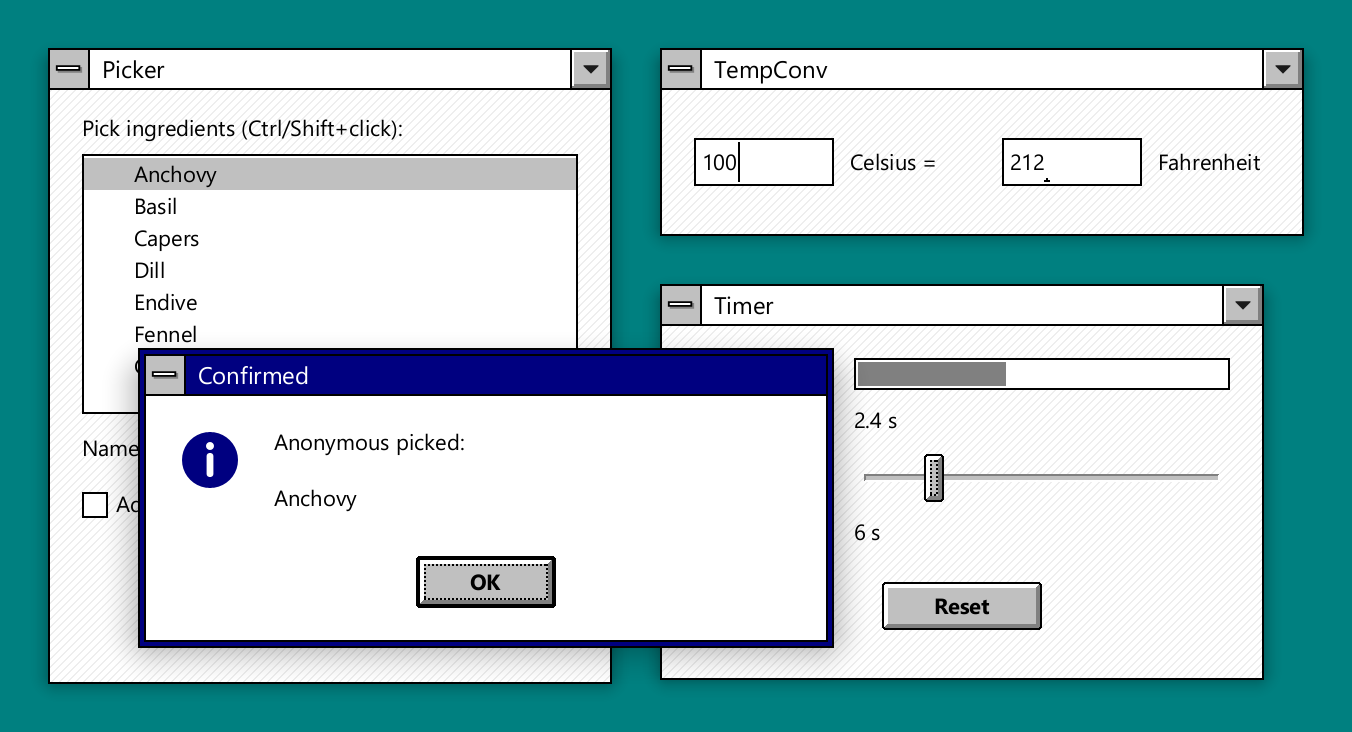
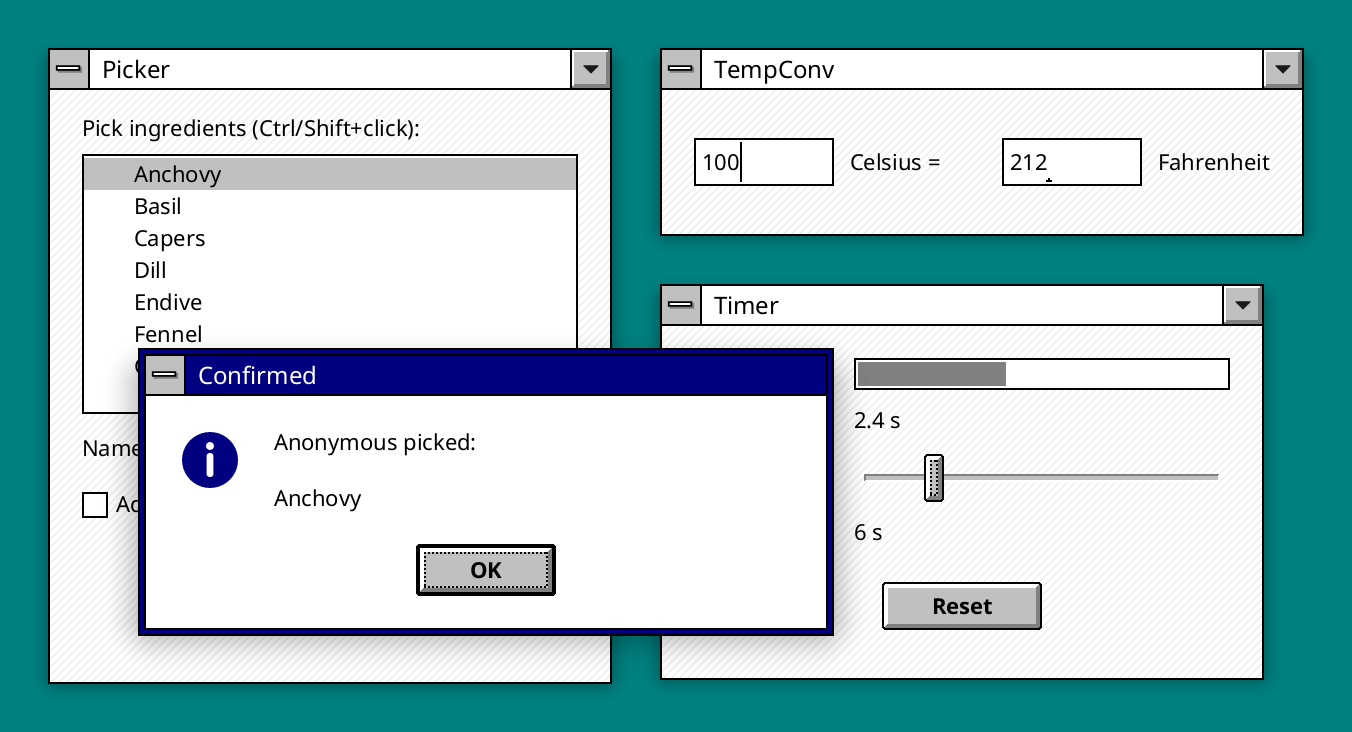
Update docs

diff --git a/CHANGELOG.md b/CHANGELOG.md
@@ -17,51 +17,53 @@ While pre-1.0, the minor version is bumped for breaking changes.
   flips it. The dark one is the new `Theme::windows_31_dark()`: the same
   chrome — black outlines, bevels lit from the top left — on a charcoal
   workspace, with dark-gray faces and light text. `App::with_dark_theme`
-  brings an app's own. The
-  appearance comes from winit on macOS and Windows, and from the freedesktop
-  settings portal's `color-scheme` on X11 and Wayland, read by a minimal D-Bus
-  client of saudade's own rather than a new dependency; without a portal, an
-  app stays light. `SAUDADE_THEME=dark` or `light` overrides the system,
-  title bars included where the platform draws them; `auto` follows it.
+  brings an app's own. The appearance comes from winit on macOS and Windows,
+  and from the freedesktop settings portal's `color-scheme` on X11 and
+  Wayland, read by a minimal D-Bus client of saudade's own rather than a new
+  dependency; without a portal, an app stays light. `SAUDADE_THEME=dark` or
+  `light` overrides the system, title bars included where the platform draws
+  them; `auto` follows it. (#70)
 - `Color::mix` blends two colors, for shades that should follow the theme
-  rather than be pinned.
+  rather than be pinned. (#70)
 - `ListItem::with_svg_glyph` shows a one-color mark in the row's text color.
   The `..` row of `FileDialog` and the `filer` example uses it, so its arrow
-  turns white on the selection band and stays visible on the dark theme.
+  turns white on the selection band and stays visible on the dark theme. (#70)
 - `SpinButton`: a pair of arrow buttons, vertical (up / down) or horizontal
   (left / right), that report steps for their owner to apply — a click is one,
   holding an arrow repeats it at the scrollbar arrows' pace, and the wheel
-  steps once per notch.
+  steps once per notch. (#90)
 - `NumberInput`: a text field for a number, with spin buttons along its right
   edge. It takes nothing but a number in its range, with no more decimals than
   its precision. The arrows, Up / Down, Page Up / Page Down and the wheel move
   it from one multiple of its step to the next. Taking the focus selects the
   number, so typing replaces it, and an optional unit (`"mm"`, `"%"`) shows in
-  grey inside the field.
+  grey inside the field. (#90)
 - `ButtonGroup`: a row or column of joined buttons, one of them selected at a
   time — a radio choice. Each button (a `GroupButton`) shows a label, an icon,
   or both; the selected one stays pushed in with a stippled face. The
   `page_layout` example picks its orientation with one, next to `NumberInput`s
-  for its margins, scale and copies.
+  for its margins, scale and copies. (#90)
 - `Painter::wrap_text` and `wrap_text_styled` break text into the lines it
   takes to fit a width, the way a `Label` wraps. (#89)
 - Drops of links and of images out of a web browser, on Windows, Wayland and
-  X11: `DragData` gains `urls` and `files` next to `paths`.
+  X11: `DragData` gains `urls` and `files` next to `paths`. (#91)
 - Windows and X11: drags report where they are, and windows get `DragMove`s.
+  (#91)
 
 ### Changed
 
 - `App::with_theme` now sets the theme for light mode only. An app that
   customizes it gets the stock dark theme in dark mode unless it passes one
   to `App::with_dark_theme` as well; passing the same theme to both keeps one
-  look whatever the system says.
+  look whatever the system says. (#70)
 - Text inputs, text editors, lists and dropdowns fill their fields with
   `theme.background` rather than a fixed white. The drop shadow under menus
   and dropdown lists, the default ink of the window background pattern, and
   the progress bar's fill now derive from the theme, so they come out the same
-  on the light theme and suit the dark one.
+  on the light theme and suit the dark one. (#70)
 - The examples take their colors from the theme, so they all go dark with the
   system — except `svg`, whose comparison is drawn for a white workspace.
+  (#70)
 - `Dialog` word-wraps its message to the width of the box and grows in height
   to fit it, so a long message no longer needs `\n`s to fit, and one of
   several lines no longer leaves extra space above the buttons. Since that
@@ -72,9 +74,9 @@ While pre-1.0, the minor version is bumped for breaking changes.
   or `\` if it has one — instead of cutting it off. (#89)
 - Windows and X11: the drag cursor follows `EventCtx::accept_drop`, as on
   Wayland, and a drag released where no widget accepted it is not dropped.
+  (#91)
 - `DragData` has two new public fields, so code that builds one from a struct
-  literal needs `..DragData::default()`.
-
+  literal needs `..DragData::default()`. (#91)
 - Windows: a dialog is now owned by the window it belongs to, like a native
   one. It opens centered over that window rather than wherever Windows puts a
   new window, stays above it, has no taskbar button of its own, and shows up

diff --git a/README.md b/README.md
@@ -1153,6 +1153,11 @@ Editing works like the editor's, minus the vertical moves:
 | triple-click         | select everything                                 |
 | drag with left       | extend the selection                              |
 
+On macOS the chords are the Mac's own: ⌘ A / C / X / V, and ⌥ Option + ← / →
+to move by word. They follow a `ModifierScheme`, as menu accelerators do;
+`with_scheme` pins one instead of the platform's, for tests that must behave
+the same on every host.
+
 Text that doesn't fit scrolls sideways to keep the caret in view. The
 field leaves Enter alone, so it reaches the container's default `Button`
 — the usual way a dialog's text field submits. Without the focus, a small
@@ -1249,6 +1254,7 @@ Editing operations:
 | Delete            | deletes the next char or the selection     |
 | Enter             | splits the line (replacing the selection)  |
 | ← / →             | move cursor one character                  |
+| Ctrl + ← / →      | move cursor one word                       |
 | ↑ / ↓             | move cursor one line, clamping column      |
 | Home / End        | jump to line start / end                   |
 | PageUp / PageDown | jump by one viewport                       |
@@ -1259,6 +1265,10 @@ Editing operations:
 | Ctrl + V          | paste at the cursor (replaces selection)   |
 | left click        | place the cursor                           |
 | drag with left    | extend the selection                       |
+
+On macOS, ⌘ takes Ctrl's place for select all / copy / cut / paste, and
+⌥ Option for moving by word, as in a `TextInput`; `with_scheme` pins the
+`ModifierScheme` they follow.
 
 Selected text renders with `theme.highlight_bg` (navy) behind it and
 `theme.highlight_text` (white) on top. Multi-line selections show a
